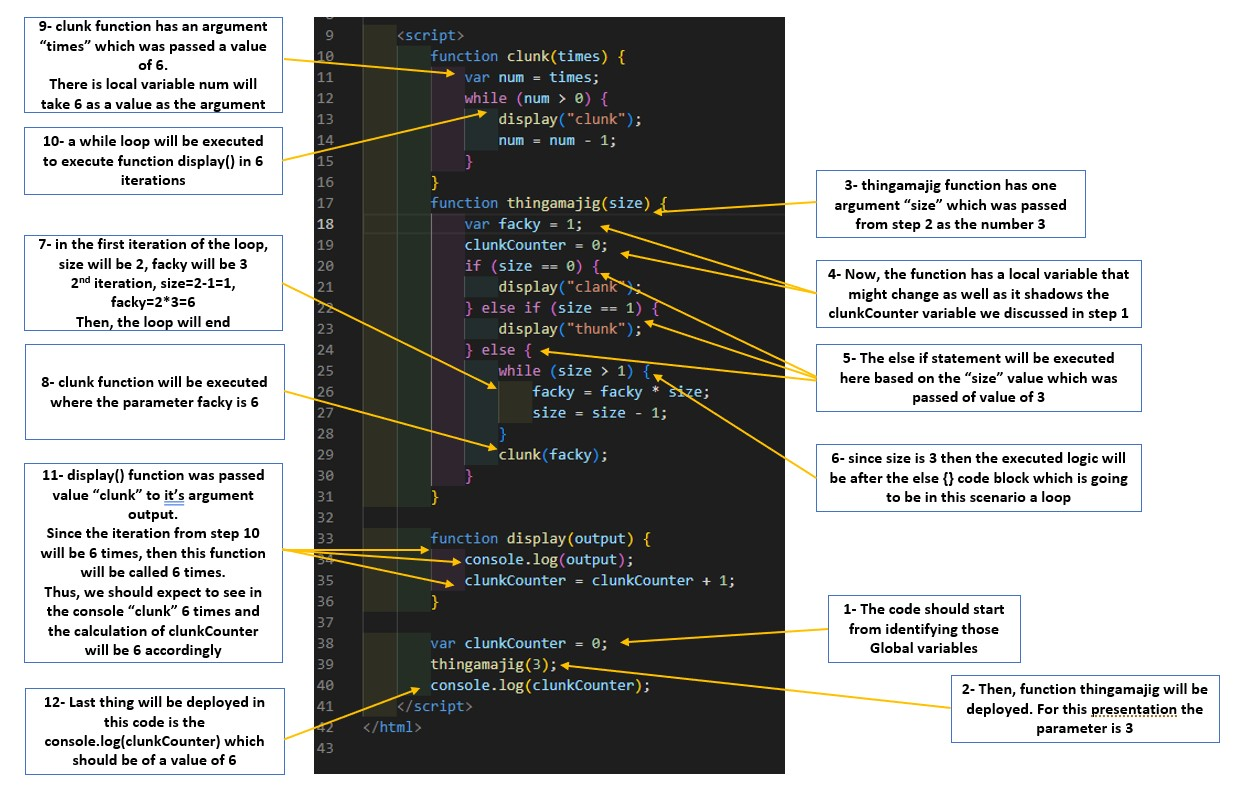
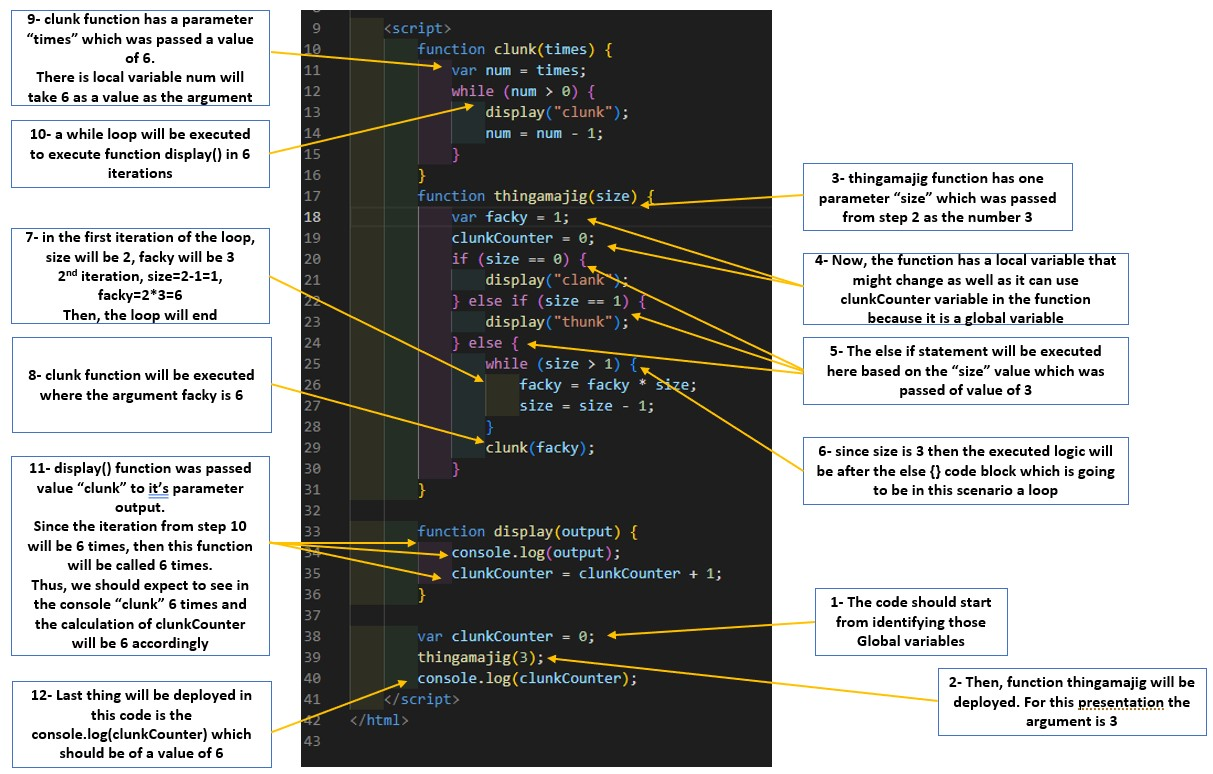
Adjusted the written assignment since it was giving the wrong explanation of parameters and arguments and adjusted the global vs local variables scopes

diff --git a/Lab3_The_Thing-a-ma-Jig/index.html b/Lab3_The_Thing-a-ma-Jig/index.html
@@ -8,6 +8,7 @@
 
 	<script>
 		function clunk(times) {
+			//num is a local variable and couldn't be used anywhere else in the code except w/n the clunk() function
 			var num = times;
 			while (num > 0) {
 				display("clunk");
@@ -15,6 +16,7 @@
 			}
 		}
 		function thingamajig(size) {
+			// facky is a local variable and couldn't be used anywhere else in the code except w/n the same function {thingamajif()}
 			var facky = 1;
 			clunkCounter = 0;
 			if (size == 0) {
@@ -32,11 +34,25 @@
 
 		function display(output) {
 			console.log(output);
+			//this global variable will shadow the original value since it was  used in this function {display()}
 			clunkCounter = clunkCounter + 1;
 		}
 
+		var x = 2;
+		y = 5;
+
+		function trial(argument) {
+			z = argument;
+		}
+
+		trial(9);
+		console.log(x, "this is x");
+		console.log(y, "this is y");
+		console.log(z, "this is z");
+
+		// this is a global variable used in the display function as well as in the thingamajif function
 		var clunkCounter = 0;
-		thingamajig(9);
+		thingamajig(1);
 		console.log(clunkCounter);
 	</script>
 </html>
